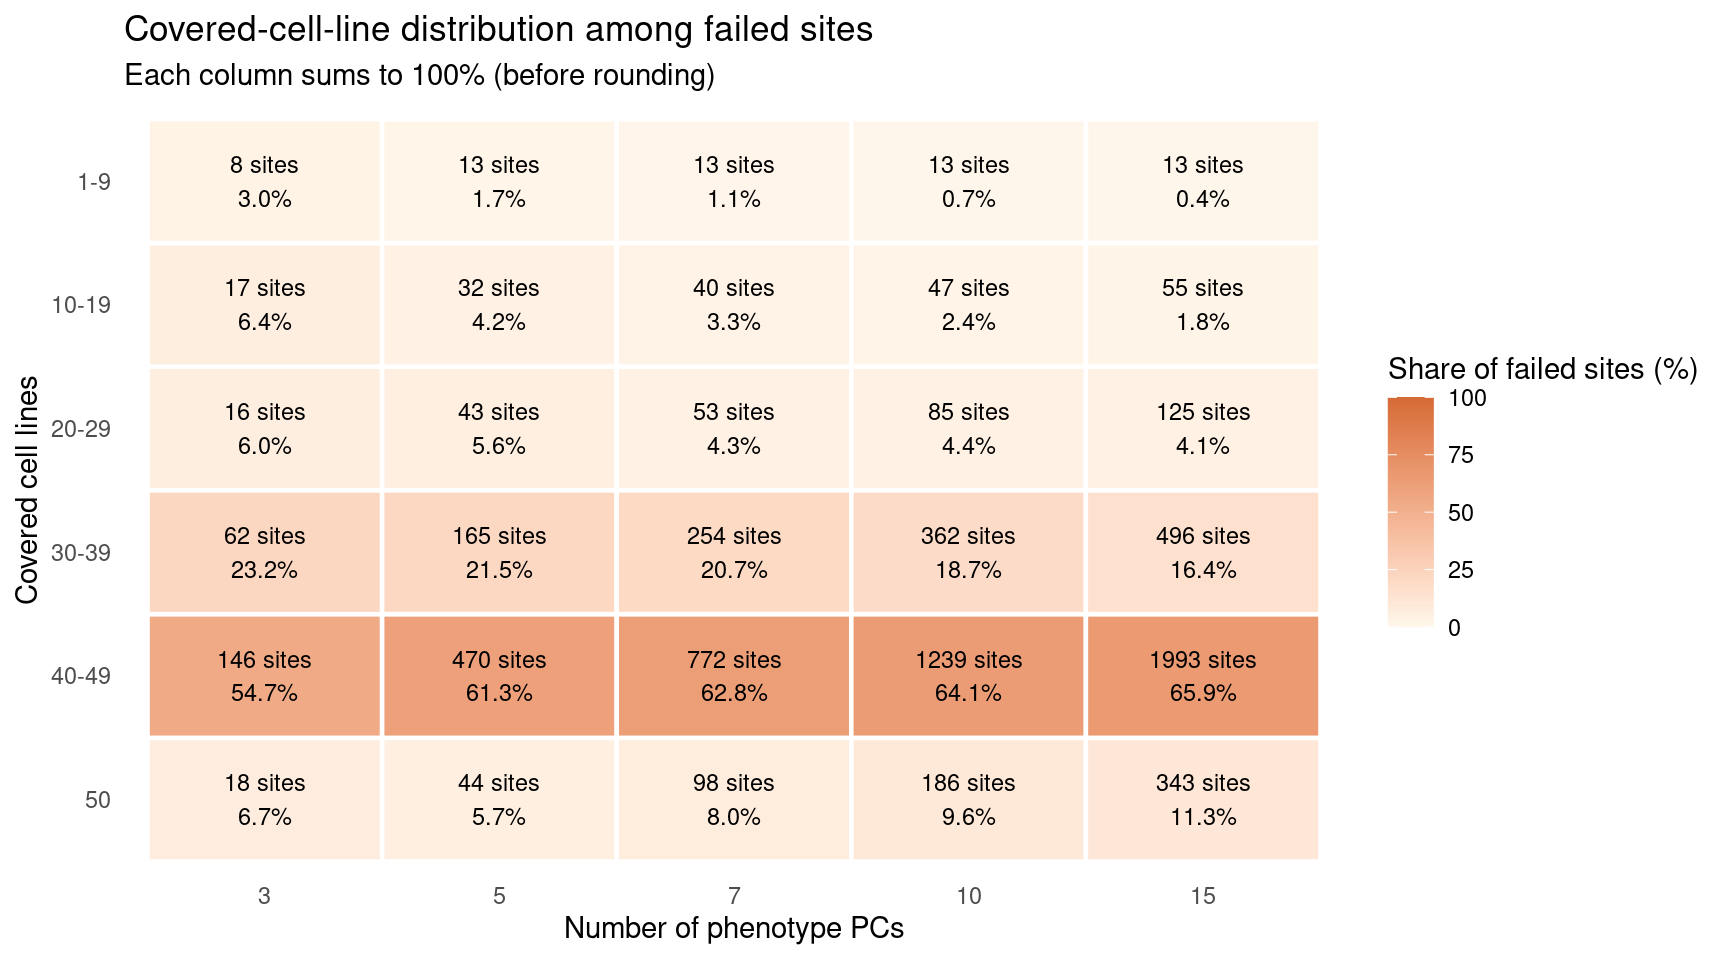
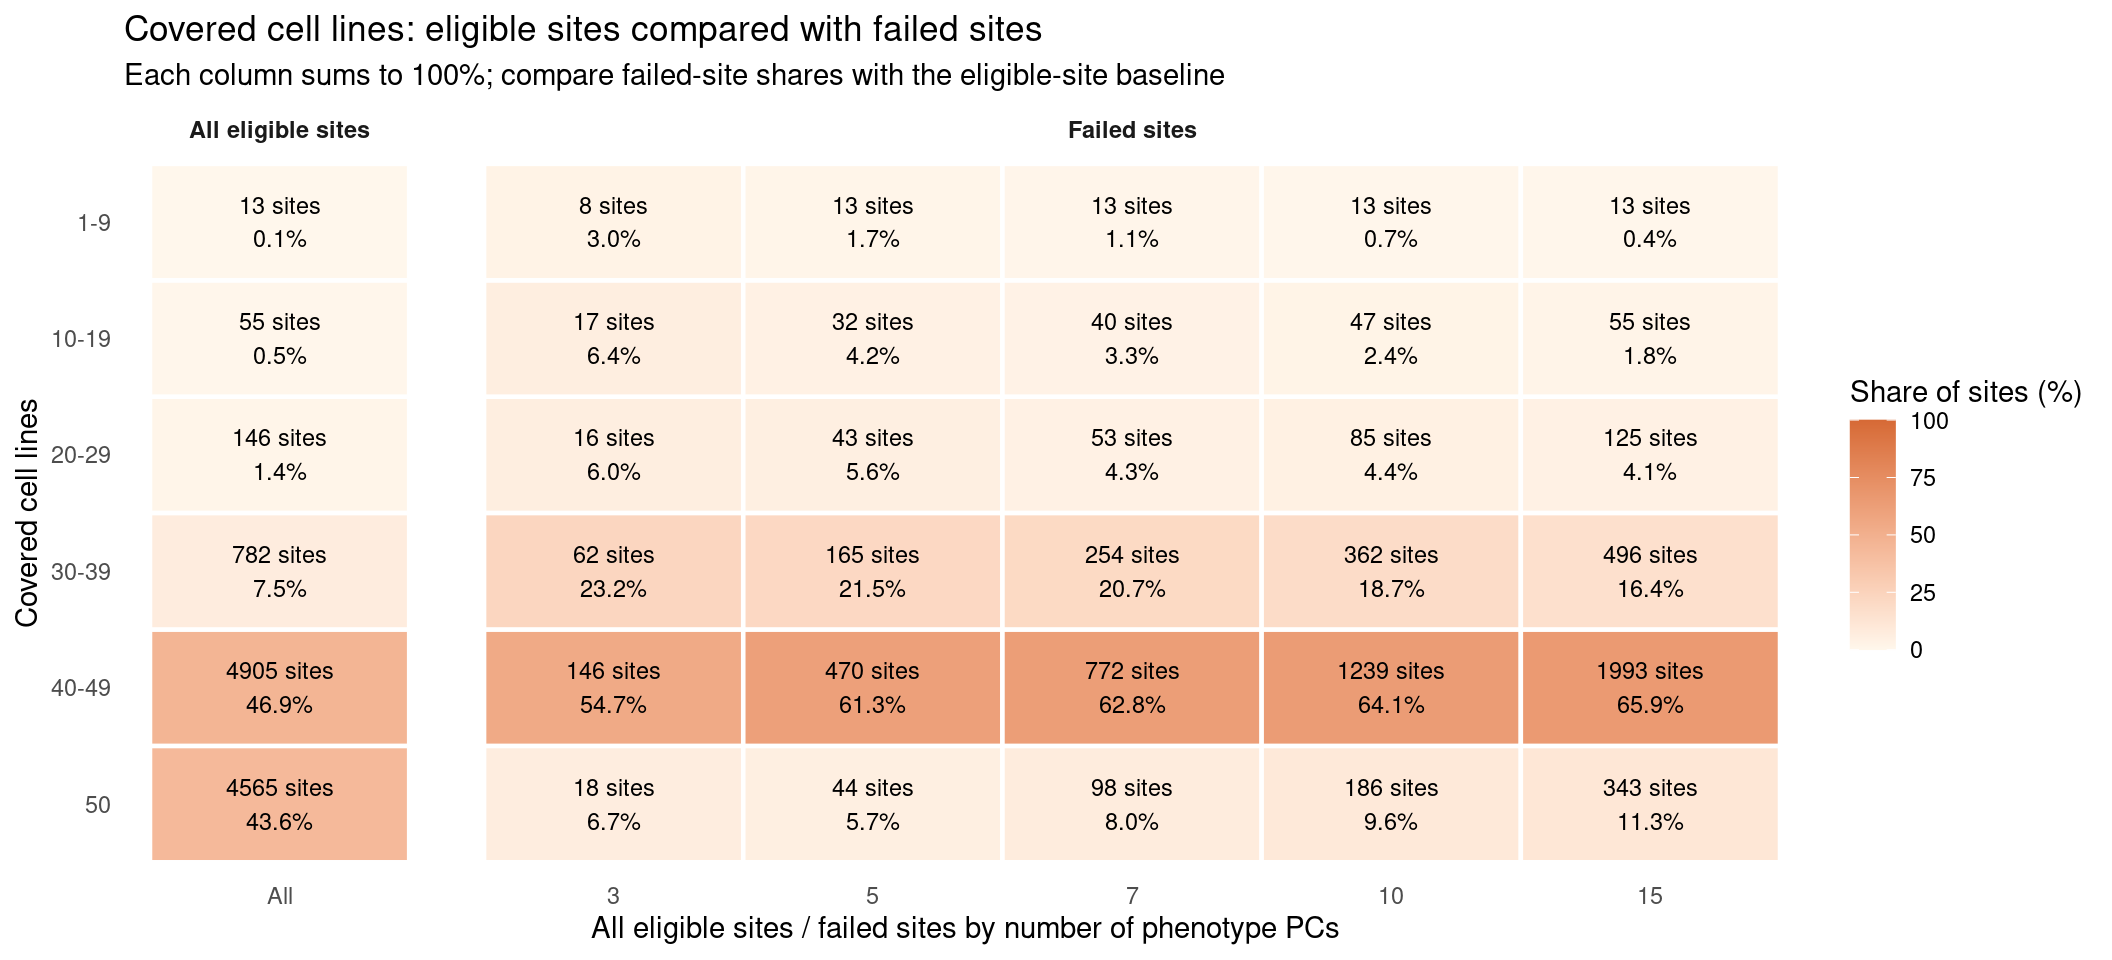
update

diff --git a/docs/qtl_mapping_betabinomial_pc_window_permutation.html b/docs/qtl_mapping_betabinomial_pc_window_permutation.html
@@ -537,15 +537,15 @@ project makes it easier to run your code on other machines.</p>
 <div class="panel panel-default">
 <div class="panel-heading">
 <p class="panel-title">
-<a data-toggle="collapse" data-parent="#workflowr-checks" href="#strongRepositoryversionstrongahrefhttpsgithubcomxsun1229pumseqtree006b3a633f0b6b5222418d4ec4031caf4abb5390targetblank006b3a6a">
+<a data-toggle="collapse" data-parent="#workflowr-checks" href="#strongRepositoryversionstrongahrefhttpsgithubcomxsun1229pumseqtree92a3e64bdf4ac4c9d7f17ede3e8a1cdb93e81a0atargetblank92a3e64a">
 <span class="glyphicon glyphicon-ok text-success"
 aria-hidden="true"></span> <strong>Repository version:</strong>
-<a href="https://github.com/xsun1229/pumseq/tree/006b3a633f0b6b5222418d4ec4031caf4abb5390" target="_blank">006b3a6</a>
+<a href="https://github.com/xsun1229/pumseq/tree/92a3e64bdf4ac4c9d7f17ede3e8a1cdb93e81a0a" target="_blank">92a3e64</a>
 </a>
 </p>
 </div>
 <div
[2 lines of base64/hex data omitted]
 class="panel-collapse collapse">
 <div class="panel-body">
 <p>
@@ -555,7 +555,7 @@ reproducibility.
 </p>
 <p>
 The results in this page were generated with repository version
-<a href="https://github.com/xsun1229/pumseq/tree/006b3a633f0b6b5222418d4ec4031caf4abb5390" target="_blank">006b3a6</a>.
+<a href="https://github.com/xsun1229/pumseq/tree/92a3e64bdf4ac4c9d7f17ede3e8a1cdb93e81a0a" target="_blank">92a3e64</a>.
 See the <em>Past versions</em> tab to see a history of the changes made
 to the R Markdown and HTML files.
 </p>
@@ -621,6 +621,40 @@ Message
 </tr>
 </thead>
 <tbody>
+<tr>
+<td>
+Rmd
+</td>
+<td>
+<a href="https://github.com/xsun1229/pumseq/blob/92a3e64bdf4ac4c9d7f17ede3e8a1cdb93e81a0a/analysis/qtl_mapping_betabinomial_pc_window_permutation.Rmd" target="_blank">92a3e64</a>
+</td>
+<td>
+XSun
+</td>
+<td>
+2026-10-12
+</td>
+<td>
+update
+</td>
+</tr>
+<tr>
+<td>
+html
+</td>
+<td>
+<a href="https://rawcdn.githack.com/xsun1229/pumseq/92a3e64bdf4ac4c9d7f17ede3e8a1cdb93e81a0a/docs/qtl_mapping_betabinomial_pc_window_permutation.html" target="_blank">92a3e64</a>
+</td>
+<td>
+XSun
+</td>
+<td>
+2026-10-12
+</td>
+<td>
+update
+</td>
+</tr>
 <tr>
 <td>
 Rmd
@@ -1129,22 +1163,33 @@ XSun
 </div>
 <div id="how-failures-are-distributed" class="section level3 tabset">
 <h3 class="tabset">How failures are distributed</h3>
-<p>These plots describe <strong>the failed sites only</strong>: sites
-whose null fit was rejected or for which all SNP fits failed within 50
-kb. Sites skipped because no suitable cis SNP exists are not
-included.</p>
-<p>Each cell shows the number of failed sites in that bin and its
-percentage of <strong>all failed sites at the same PC setting</strong>.
-Each column sums to 100% before rounding. These distributions describe
-where failed sites occur; they do not measure the probability of failure
-among all sites in a bin.</p>
+<p>The left panel shows <strong>all eligible sites</strong>; the right
+panel shows <strong>failed sites at each PC setting</strong>. A failed
+site has a rejected null fit or no successful SNP fit within 50 kb.
+Sites skipped because no suitable cis SNP exists are excluded from both
+groups.</p>
+<p>Each cell shows the number of sites and their percentage within that
+column. Every column sums to 100% before rounding. The eligible-site
+distribution is the same for all PC settings and is shown once. A bin is
+overrepresented among failures when its percentage in a failed-site
+column exceeds the percentage in the eligible-site column. This compares
+distributions, rather than the probability that a site in that bin
+fails.</p>
+<p>For example, sites with 40-49 covered cell lines account for
+<strong>46.9% of all eligible sites</strong>, but <strong>65.9% of
+failures at 15 PCs</strong> (1.41 times their baseline share). Sites
+covered in all 50 cell lines account for 43.6% of eligible sites and
+11.3% of failures at 15 PCs. Thus, the large failure count in the 40-49
+bin reflects both its size and its overrepresentation among failures.
+These comparisons do not separate sample coverage from read depth or
+other site characteristics.</p>
 <p>Read depth is total reads divided by the number of covered cell
 lines. The failure set is determined separately for each PC setting.</p>
 <div id="read-depth" class="section level4">
 <h4>Read depth</h4>
 <pre class="r"><code>distribution_plot(&quot;depth_bin&quot;,c(&quot;&lt;=5&quot;,&quot;5-10&quot;,&quot;10-20&quot;,&quot;20-50&quot;,&quot;50-100&quot;,&quot;&gt;100&quot;),
- &quot;Read-depth distribution among failed sites&quot;, &quot;Reads per covered cell line&quot;)</code></pre>
-<p><img src="figure/qtl_mapping_betabinomial_pc_window_permutation.Rmd/failures-depth-1.png" alt="" width="864" style="display: block; margin: auto;" /></p>
+ &quot;Read depth: eligible sites compared with failed sites&quot;, &quot;Reads per covered cell line&quot;)</code></pre>
+<p><img src="figure/qtl_mapping_betabinomial_pc_window_permutation.Rmd/failures-depth-1.png" alt="" width="1056" style="display: block; margin: auto;" /></p>
 <p>
 <button type="button" class="btn btn-default btn-xs btn-workflowr btn-workflowr-fig" data-toggle="collapse" data-target="#fig-failures-depth-1">
 Past versions of failures-depth-1.png
@@ -1169,6 +1214,17 @@ Date
 <tbody>
 <tr>
 <td>
+<a href="https://github.com/xsun1229/pumseq/blob/92a3e64bdf4ac4c9d7f17ede3e8a1cdb93e81a0a/docs/figure/qtl_mapping_betabinomial_pc_window_permutation.Rmd/failures-depth-1.png" target="_blank">92a3e64</a>
+</td>
+<td>
+XSun
+</td>
+<td>
+2026-10-12
+</td>
+</tr>
+<tr>
+<td>
 <a href="https://github.com/xsun1229/pumseq/blob/006b3a633f0b6b5222418d4ec4031caf4abb5390/docs/figure/qtl_mapping_betabinomial_pc_window_permutation.Rmd/failures-depth-1.png" target="_blank">006b3a6</a>
 </td>
 <td>
@@ -1186,8 +1242,8 @@ XSun
 <div id="number-of-covered-cell-lines" class="section level4">
 <h4>Number of covered cell lines</h4>
 <pre class="r"><code>distribution_plot(&quot;cells_bin&quot;,c(&quot;1-9&quot;,&quot;10-19&quot;,&quot;20-29&quot;,&quot;30-39&quot;,&quot;40-49&quot;,&quot;50&quot;),
- &quot;Covered-cell-line distribution among failed sites&quot;, &quot;Covered cell lines&quot;)</code></pre>
-<p><img src="figure/qtl_mapping_betabinomial_pc_window_permutation.Rmd/failures-cells-1.png" alt="" width="864" style="display: block; margin: auto;" /></p>
+ &quot;Covered cell lines: eligible sites compared with failed sites&quot;, &quot;Covered cell lines&quot;)</code></pre>
+<p><img src="figure/qtl_mapping_betabinomial_pc_window_permutation.Rmd/failures-cells-1.png" alt="" width="1056" style="display: block; margin: auto;" /></p>
 <p>
 <button type="button" class="btn btn-default btn-xs btn-workflowr btn-workflowr-fig" data-toggle="collapse" data-target="#fig-failures-cells-1">
 Past versions of failures-cells-1.png
@@ -1210,6 +1266,17 @@ Date
 </tr>
 </thead>
 <tbody>
+<tr>
+<td>
+<a href="https://github.com/xsun1229/pumseq/blob/92a3e64bdf4ac4c9d7f17ede3e8a1cdb93e81a0a/docs/figure/qtl_mapping_betabinomial_pc_window_permutation.Rmd/failures-cells-1.png" target="_blank">92a3e64</a>
+</td>
+<td>
+XSun
+</td>
+<td>
+2026-10-12
+</td>
+</tr>
 <tr>
 <td>
 <a href="https://github.com/xsun1229/pumseq/blob/006b3a633f0b6b5222418d4ec4031caf4abb5390/docs/figure/qtl_mapping_betabinomial_pc_window_permutation.Rmd/failures-cells-1.png" target="_blank">006b3a6</a>
